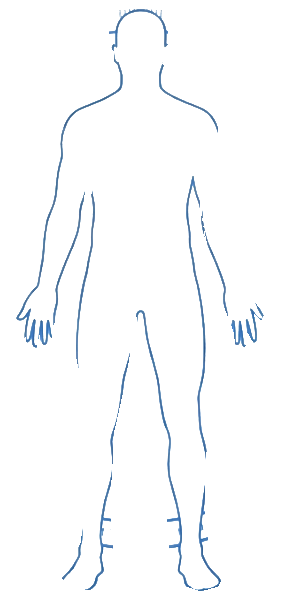
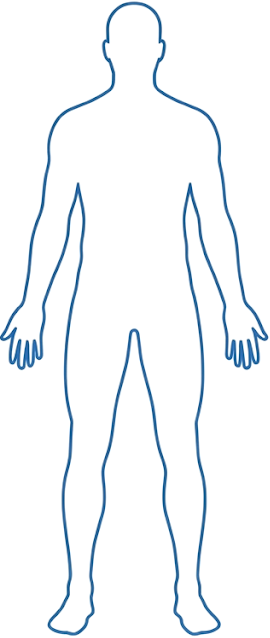
Use updated body outline image

Changed region(s): [[0.2963, 0.27, 1.0, 1.0], [0.0, 0.0, 0.7704, 1.0], [0.7704, 0.18, 0.9185, 0.48]]

diff --git a/index.html b/index.html
@@ -272,7 +272,7 @@
 <body>
   <svg aria-hidden="true" class="hidden">
     <symbol id="anatomical-body-outline" viewBox="0 0 220 380">
-      <image href="./scanner-body.png" x="17" y="0" width="185" height="380" preserveAspectRatio="none"/>
+      <image href="./scanner-body.png" x="30" y="0" width="160" height="380" preserveAspectRatio="none"/>
     </symbol>
   </svg>
   <header class="fixed inset-x-0 top-0 z-50 border-b border-slate-200/60 bg-paper/75 backdrop-blur-xl">
